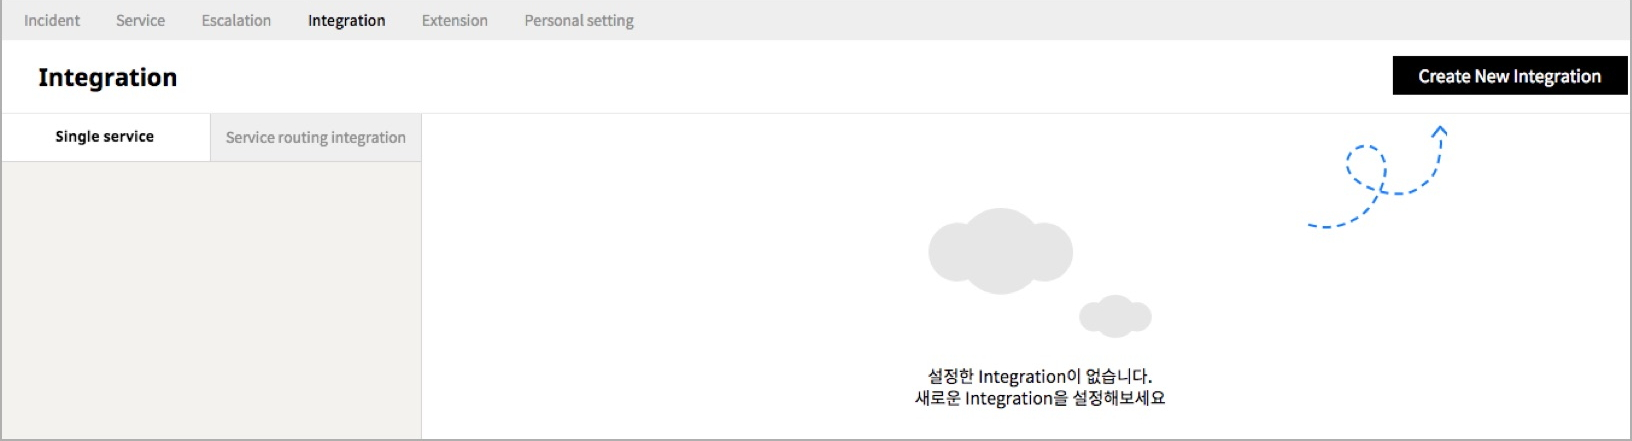
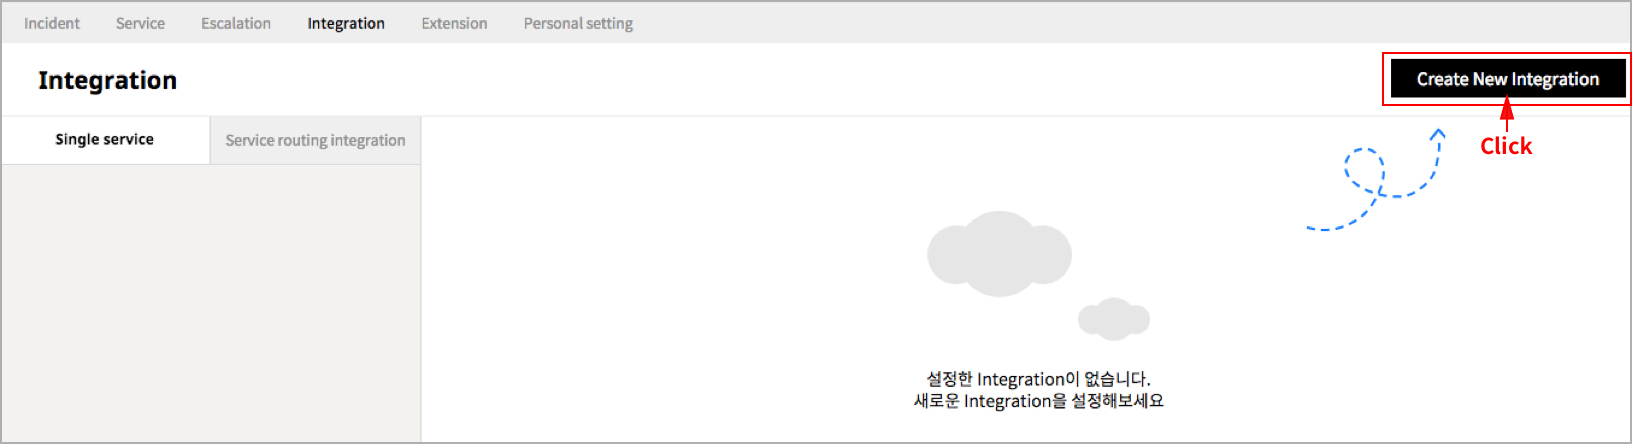
메뉴얼 변경

diff --git a/source/opsnow/user_guide_alertnow_en.html b/source/opsnow/user_guide_alertnow_en.html
@@ -2,7 +2,7 @@
 <html lang="ko">
 <head>
 	<meta charset="UTF-8">
-	<title>USER GUIDE :: AlertNow</title>
+	<title>BESPIN USER GUIDE :: AlertNow</title>
 	<meta http-equiv="X-UA-Compatible" content="IE=edge">
 	<link rel="stylesheet" href="./resource/bsp_manual.css">
 	<script src="./resource/jquery-2.2.3.min.js"></script>
@@ -71,7 +71,7 @@
                             <div class="section-sub">
                                 <a href="#guide_opsnow_extension" class="btn-toggle">Extension</a>
                                 <ol class="toc">
-                                    <li><a href="#guide_opsnow_extension_1_1">AlertNow접속</a></li>
+                                    <li><a href="#guide_opsnow_extension_1_1">AlertNow 접속</a></li>
                                     <li><a href="#guide_opsnow_extension_1_2">AlertNow 메뉴 구성</a></li>
                                     <li><a href="#guide_opsnow_extension_1_3">Extension</a></li>
                                     <li><a href="#guide_opsnow_extension_1_4">AlertNow Extension slack 설정</a></li>
@@ -268,7 +268,7 @@
                             <ol class="list-description">
                                 <li> Integration 메뉴 선택 : Integration 메뉴를 클릭 합니다.
                                     <figure>
-                                        <div class="screenshot"><img src="./image/bnr_guide_opsnow_integration_1_3_1.jpg" alt="" width="816" height="200" /></div>
+                                        <div class="screenshot"><img src="./image/bnr_guide_opsnow_integration_1_3_1.jpg" alt="" width="816" height="260" /></div>
 
                                     </figure>
                                 </li>
@@ -688,7 +688,7 @@
                             <li>1단계 : Extension 메뉴 선택
                                 <p>Extension 메뉴를 클릭 합니다.</p>
                                 <figure>
-                                    <div class="screenshot"><img src="./image/bnr_guide_opsnow_extension_1_4_1.jpg" alt="" width="816" height="200" /></div>
+                                    <div class="screenshot"><img src="./image/bnr_guide_opsnow_extension_1_4_1.jpg" alt="" width="816" height="260" /></div>
 
                                 </figure>
                             </li>
@@ -910,7 +910,7 @@
                             <li>1단계 : Escalation 메뉴 선택
                                 <p>Escalation 메뉴를 클릭 합니다.</p>
                                 <figure>
-                                    <div class="screenshot"><img src="./image/bnr_guide_opsnow_escalation_1_4_1.jpg" alt="" width="816" height="200" /></div>
+                                    <div class="screenshot"><img src="./image/bnr_guide_opsnow_escalation_1_4_1.jpg" alt="" width="816" height="260" /></div>
 
                                 </figure>
                             </li>
@@ -956,7 +956,7 @@
                                         <tr>
                                             <th scope="row">Rule 설정</th>
                                             <td>
-                                                If the incidents is not “acknowledged / closed” It will escalate to next step. <br />
+                                                If the incident is not “acknowledged / closed” it will escalate to next step. <br />
                                                 -	Acknowledged 상태가 아닌 경우,<br />
                                                 -	Closed 상태가 아닌 경우,Escalation Policy를 적용 하도록 설정 합니다.<br />
                                                 <br />
@@ -1056,7 +1056,7 @@
                             <li>1단계 : Integration 메뉴 선택
                                 <p>Integration 메뉴를 클릭 합니다.</p>
                                 <figure>
-                                    <div class="screenshot"><img src="./image/bnr_guide_opsnow_escalation_1_5_1.jpg" alt="" width="816" height="200" /></div>
+                                    <div class="screenshot"><img src="./image/bnr_guide_opsnow_escalation_1_5_1.jpg" alt="" width="816" height="260" /></div>
 
                                 </figure>
                             </li>
@@ -1240,7 +1240,7 @@
                             <li>1단계 : Integration 메뉴 선택
                                 <p>Integration 메뉴를 클릭 합니다.</p>
                                 <figure>
-                                    <div class="screenshot"><img src="./image/bnr_guide_opsnow_escalation_1_6_1.jpg" alt="" width="816" height="200" /></div>
+                                    <div class="screenshot"><img src="./image/bnr_guide_opsnow_escalation_1_6_1.jpg" alt="" width="816" height="260" /></div>
 
                                 </figure>
                             </li>
@@ -2200,7 +2200,7 @@
                             <li>1단계 : Service 메뉴 선택
                                 <p>   Service 메뉴를 클릭 합니다.</p>
                                 <figure>
-                                    <div class="screenshot"><img src="./image/bnr_guide_opsnow_service_2_1_4_1.jpg" alt="" width="816" height="200" /></div>
+                                    <div class="screenshot"><img src="./image/bnr_guide_opsnow_service_2_1_4_1.jpg" alt="" width="816" height="260" /></div>
 
                                 </figure>
                             </li>
@@ -2309,7 +2309,7 @@
                             <li>1단계 : Integration 메뉴 선택
                                 <p>   Integration 메뉴를 클릭 합니다.</p>
                                 <figure>
-                                    <div class="screenshot"><img src="./image/bnr_guide_opsnow_service_2_1_5_1.jpg" alt="" width="816" height="200" /></div>
+                                    <div class="screenshot"><img src="./image/bnr_guide_opsnow_service_2_1_5_1.jpg" alt="" width="816" height="260" /></div>
 
                                 </figure>
                             </li>
@@ -2506,7 +2506,7 @@
                     <div class="chapter-contents">
                         <p class="chapter-title-description">Personal Setting 메뉴를 Click 합니다.</p>
                         <figure>
-                            <div class="screenshot"><img src="./image/bnr_guide_opsnow_personal_setting_1_3.jpg" alt="" width="816" height="200" /></div>
+                            <div class="screenshot"><img src="./image/bnr_guide_opsnow_personal_setting_1_3.jpg" alt="" width="816" height="260" /></div>
 
                         </figure>
 

diff --git a/source/opsnow/user_guide_alertnow_ko.html b/source/opsnow/user_guide_alertnow_ko.html
@@ -2,7 +2,7 @@
 <html lang="ko">
 <head>
 	<meta charset="UTF-8">
-	<title>USER GUIDE :: AlertNow</title>
+	<title>BESPIN USER GUIDE :: AlertNow</title>
 	<meta http-equiv="X-UA-Compatible" content="IE=edge">
 	<link rel="stylesheet" href="./resource/bsp_manual.css">
 	<script src="./resource/jquery-2.2.3.min.js"></script>
@@ -71,7 +71,7 @@
                             <div class="section-sub">
                                 <a href="#guide_opsnow_extension" class="btn-toggle">Extension</a>
                                 <ol class="toc">
-                                    <li><a href="#guide_opsnow_extension_1_1">AlertNow접속</a></li>
+                                    <li><a href="#guide_opsnow_extension_1_1">AlertNow 접속</a></li>
                                     <li><a href="#guide_opsnow_extension_1_2">AlertNow 메뉴 구성</a></li>
                                     <li><a href="#guide_opsnow_extension_1_3">Extension</a></li>
                                     <li><a href="#guide_opsnow_extension_1_4">AlertNow Extension slack 설정</a></li>
@@ -268,7 +268,7 @@
                             <ol class="list-description">
                                 <li> Integration 메뉴 선택 : Integration 메뉴를 클릭 합니다.
                                     <figure>
-                                        <div class="screenshot"><img src="./image/bnr_guide_opsnow_integration_1_3_1.jpg" alt="" width="816" height="200" /></div>
+                                        <div class="screenshot"><img src="./image/bnr_guide_opsnow_integration_1_3_1.jpg" alt="" width="816" height="260" /></div>
 
                                     </figure>
                                 </li>
@@ -688,7 +688,7 @@
                             <li>1단계 : Extension 메뉴 선택
                                 <p>Extension 메뉴를 클릭 합니다.</p>
                                 <figure>
-                                    <div class="screenshot"><img src="./image/bnr_guide_opsnow_extension_1_4_1.jpg" alt="" width="816" height="200" /></div>
+                                    <div class="screenshot"><img src="./image/bnr_guide_opsnow_extension_1_4_1.jpg" alt="" width="816" height="260" /></div>
 
                                 </figure>
                             </li>
@@ -910,7 +910,7 @@
                             <li>1단계 : Escalation 메뉴 선택
                                 <p>Escalation 메뉴를 클릭 합니다.</p>
                                 <figure>
-                                    <div class="screenshot"><img src="./image/bnr_guide_opsnow_escalation_1_4_1.jpg" alt="" width="816" height="200" /></div>
+                                    <div class="screenshot"><img src="./image/bnr_guide_opsnow_escalation_1_4_1.jpg" alt="" width="816" height="260" /></div>
 
                                 </figure>
                             </li>
@@ -956,7 +956,7 @@
                                         <tr>
                                             <th scope="row">Rule 설정</th>
                                             <td>
-                                                If the incidents is not “acknowledged / closed” It will escalate to next step. <br />
+                                                If the incident is not “acknowledged / closed” it will escalate to next step. <br />
                                                 -	Acknowledged 상태가 아닌 경우,<br />
                                                 -	Closed 상태가 아닌 경우,Escalation Policy를 적용 하도록 설정 합니다.<br />
                                                 <br />
@@ -1056,7 +1056,7 @@
                             <li>1단계 : Integration 메뉴 선택
                                 <p>Integration 메뉴를 클릭 합니다.</p>
                                 <figure>
-                                    <div class="screenshot"><img src="./image/bnr_guide_opsnow_escalation_1_5_1.jpg" alt="" width="816" height="200" /></div>
+                                    <div class="screenshot"><img src="./image/bnr_guide_opsnow_escalation_1_5_1.jpg" alt="" width="816" height="260" /></div>
 
                                 </figure>
                             </li>
@@ -1240,7 +1240,7 @@
                             <li>1단계 : Integration 메뉴 선택
                                 <p>Integration 메뉴를 클릭 합니다.</p>
                                 <figure>
-                                    <div class="screenshot"><img src="./image/bnr_guide_opsnow_escalation_1_6_1.jpg" alt="" width="816" height="200" /></div>
+                                    <div class="screenshot"><img src="./image/bnr_guide_opsnow_escalation_1_6_1.jpg" alt="" width="816" height="260" /></div>
 
                                 </figure>
                             </li>
@@ -2200,7 +2200,7 @@
                             <li>1단계 : Service 메뉴 선택
                                 <p>   Service 메뉴를 클릭 합니다.</p>
                                 <figure>
-                                    <div class="screenshot"><img src="./image/bnr_guide_opsnow_service_2_1_4_1.jpg" alt="" width="816" height="200" /></div>
+                                    <div class="screenshot"><img src="./image/bnr_guide_opsnow_service_2_1_4_1.jpg" alt="" width="816" height="260" /></div>
 
                                 </figure>
                             </li>
@@ -2309,7 +2309,7 @@
                             <li>1단계 : Integration 메뉴 선택
                                 <p>   Integration 메뉴를 클릭 합니다.</p>
                                 <figure>
-                                    <div class="screenshot"><img src="./image/bnr_guide_opsnow_service_2_1_5_1.jpg" alt="" width="816" height="200" /></div>
+                                    <div class="screenshot"><img src="./image/bnr_guide_opsnow_service_2_1_5_1.jpg" alt="" width="816" height="260" /></div>
 
                                 </figure>
                             </li>
@@ -2506,7 +2506,7 @@
                     <div class="chapter-contents">
                         <p class="chapter-title-description">Personal Setting 메뉴를 Click 합니다.</p>
                         <figure>
-                            <div class="screenshot"><img src="./image/bnr_guide_opsnow_personal_setting_1_3.jpg" alt="" width="816" height="200" /></div>
+                            <div class="screenshot"><img src="./image/bnr_guide_opsnow_personal_setting_1_3.jpg" alt="" width="816" height="260" /></div>
 
                         </figure>
 

diff --git a/source/opsnow/user_guide_alertnow_zh.html b/source/opsnow/user_guide_alertnow_zh.html
@@ -2,7 +2,7 @@
 <html lang="ko">
 <head>
 	<meta charset="UTF-8">
-	<title>USER GUIDE :: AlertNow</title>
+	<title>BESPIN USER GUIDE :: AlertNow</title>
 	<meta http-equiv="X-UA-Compatible" content="IE=edge">
 	<link rel="stylesheet" href="./resource/bsp_manual.css">
 	<script src="./resource/jquery-2.2.3.min.js"></script>
@@ -71,7 +71,7 @@
                             <div class="section-sub">
                                 <a href="#guide_opsnow_extension" class="btn-toggle">Extension</a>
                                 <ol class="toc">
-                                    <li><a href="#guide_opsnow_extension_1_1">AlertNow접속</a></li>
+                                    <li><a href="#guide_opsnow_extension_1_1">AlertNow 접속</a></li>
                                     <li><a href="#guide_opsnow_extension_1_2">AlertNow 메뉴 구성</a></li>
                                     <li><a href="#guide_opsnow_extension_1_3">Extension</a></li>
                                     <li><a href="#guide_opsnow_extension_1_4">AlertNow Extension slack 설정</a></li>
@@ -268,7 +268,7 @@
                             <ol class="list-description">
                                 <li> Integration 메뉴 선택 : Integration 메뉴를 클릭 합니다.
                                     <figure>
-                                        <div class="screenshot"><img src="./image/bnr_guide_opsnow_integration_1_3_1.jpg" alt="" width="816" height="200" /></div>
+                                        <div class="screenshot"><img src="./image/bnr_guide_opsnow_integration_1_3_1.jpg" alt="" width="816" height="260" /></div>
 
                                     </figure>
                                 </li>
@@ -688,7 +688,7 @@
                             <li>1단계 : Extension 메뉴 선택
                                 <p>Extension 메뉴를 클릭 합니다.</p>
                                 <figure>
-                                    <div class="screenshot"><img src="./image/bnr_guide_opsnow_extension_1_4_1.jpg" alt="" width="816" height="200" /></div>
+                                    <div class="screenshot"><img src="./image/bnr_guide_opsnow_extension_1_4_1.jpg" alt="" width="816" height="260" /></div>
 
                                 </figure>
                             </li>
@@ -910,7 +910,7 @@
                             <li>1단계 : Escalation 메뉴 선택
                                 <p>Escalation 메뉴를 클릭 합니다.</p>
                                 <figure>
-                                    <div class="screenshot"><img src="./image/bnr_guide_opsnow_escalation_1_4_1.jpg" alt="" width="816" height="200" /></div>
+                                    <div class="screenshot"><img src="./image/bnr_guide_opsnow_escalation_1_4_1.jpg" alt="" width="816" height="260" /></div>
 
                                 </figure>
                             </li>
@@ -956,7 +956,7 @@
                                         <tr>
                                             <th scope="row">Rule 설정</th>
                                             <td>
-                                                If the incidents is not “acknowledged / closed” It will escalate to next step. <br />
+                                                If the incident is not “acknowledged / closed” it will escalate to next step. <br />
                                                 -	Acknowledged 상태가 아닌 경우,<br />
                                                 -	Closed 상태가 아닌 경우,Escalation Policy를 적용 하도록 설정 합니다.<br />
                                                 <br />
@@ -1056,7 +1056,7 @@
                             <li>1단계 : Integration 메뉴 선택
                                 <p>Integration 메뉴를 클릭 합니다.</p>
                                 <figure>
-                                    <div class="screenshot"><img src="./image/bnr_guide_opsnow_escalation_1_5_1.jpg" alt="" width="816" height="200" /></div>
+                                    <div class="screenshot"><img src="./image/bnr_guide_opsnow_escalation_1_5_1.jpg" alt="" width="816" height="260" /></div>
 
                                 </figure>
                             </li>
@@ -1240,7 +1240,7 @@
                             <li>1단계 : Integration 메뉴 선택
                                 <p>Integration 메뉴를 클릭 합니다.</p>
                                 <figure>
-                                    <div class="screenshot"><img src="./image/bnr_guide_opsnow_escalation_1_6_1.jpg" alt="" width="816" height="200" /></div>
+                                    <div class="screenshot"><img src="./image/bnr_guide_opsnow_escalation_1_6_1.jpg" alt="" width="816" height="260" /></div>
 
                                 </figure>
                             </li>
@@ -2200,7 +2200,7 @@
                             <li>1단계 : Service 메뉴 선택
                                 <p>   Service 메뉴를 클릭 합니다.</p>
                                 <figure>
-                                    <div class="screenshot"><img src="./image/bnr_guide_opsnow_service_2_1_4_1.jpg" alt="" width="816" height="200" /></div>
+                                    <div class="screenshot"><img src="./image/bnr_guide_opsnow_service_2_1_4_1.jpg" alt="" width="816" height="260" /></div>
 
                                 </figure>
                             </li>
@@ -2309,7 +2309,7 @@
                             <li>1단계 : Integration 메뉴 선택
                                 <p>   Integration 메뉴를 클릭 합니다.</p>
                                 <figure>
-                                    <div class="screenshot"><img src="./image/bnr_guide_opsnow_service_2_1_5_1.jpg" alt="" width="816" height="200" /></div>
+                                    <div class="screenshot"><img src="./image/bnr_guide_opsnow_service_2_1_5_1.jpg" alt="" width="816" height="260" /></div>
 
                                 </figure>
                             </li>
@@ -2506,7 +2506,7 @@
                     <div class="chapter-contents">
                         <p class="chapter-title-description">Personal Setting 메뉴를 Click 합니다.</p>
                         <figure>
-                            <div class="screenshot"><img src="./image/bnr_guide_opsnow_personal_setting_1_3.jpg" alt="" width="816" height="200" /></div>
+                            <div class="screenshot"><img src="./image/bnr_guide_opsnow_personal_setting_1_3.jpg" alt="" width="816" height="260" /></div>
 
                         </figure>
 
